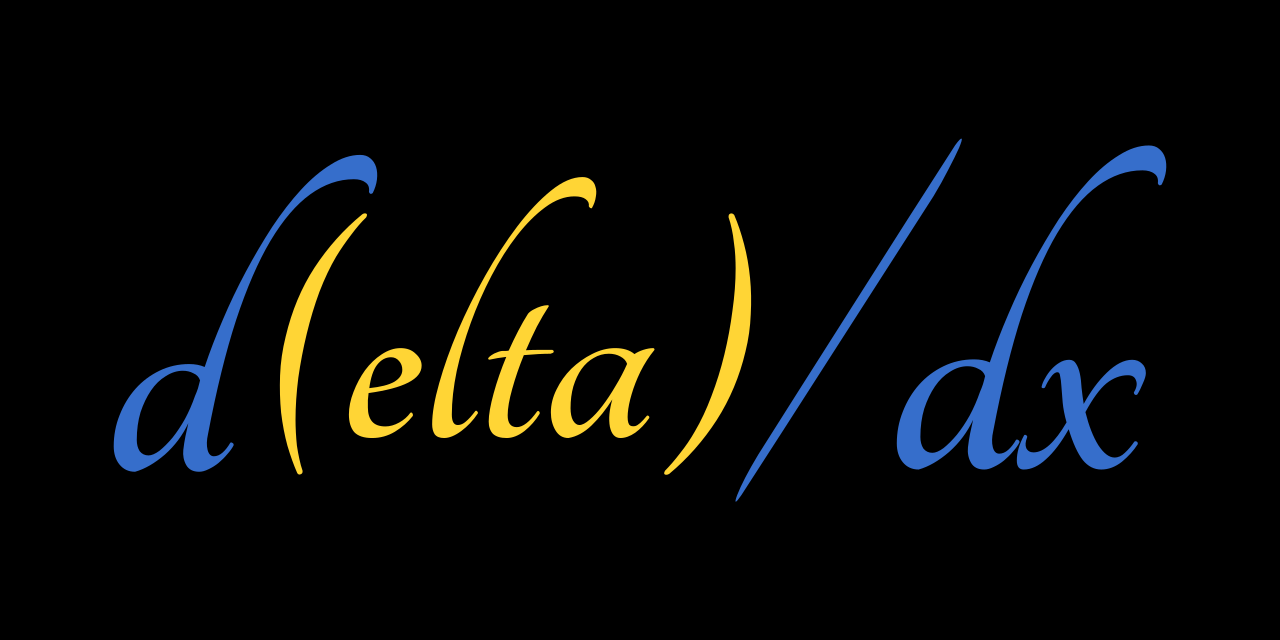
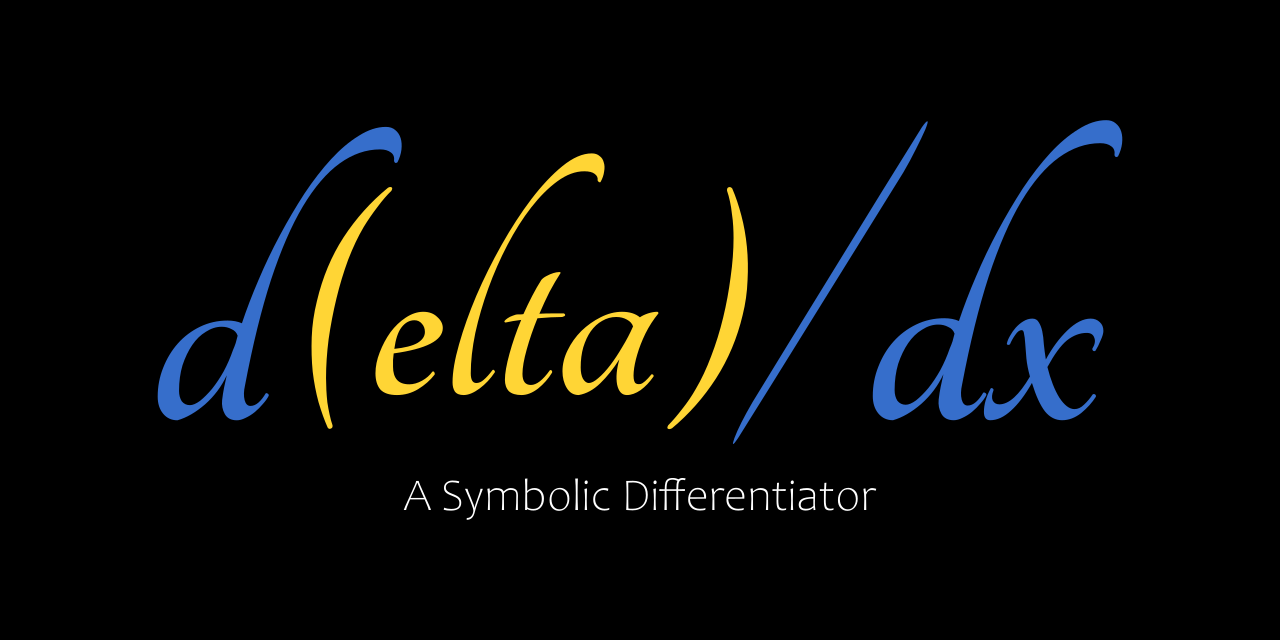
Updated Readme

diff --git a/setup.py b/setup.py
@@ -5,10 +5,10 @@ with open("README.md", "r", encoding="utf-8") as fh:
 
 setuptools.setup(
     name="delta-dx",
-    version="0.0.4",
+    version="0.0.1",
     author="MrRhuezzler",
     author_email="anonymouspyro369@gmail.com",
-    description="A Python Symbolic Differentiation",
+    description="A Symbolic Differentiator",
     long_description=long_description,
     long_description_content_type="text/markdown",
     url="https://github.com/MrRhuezzler/delta-dx",
